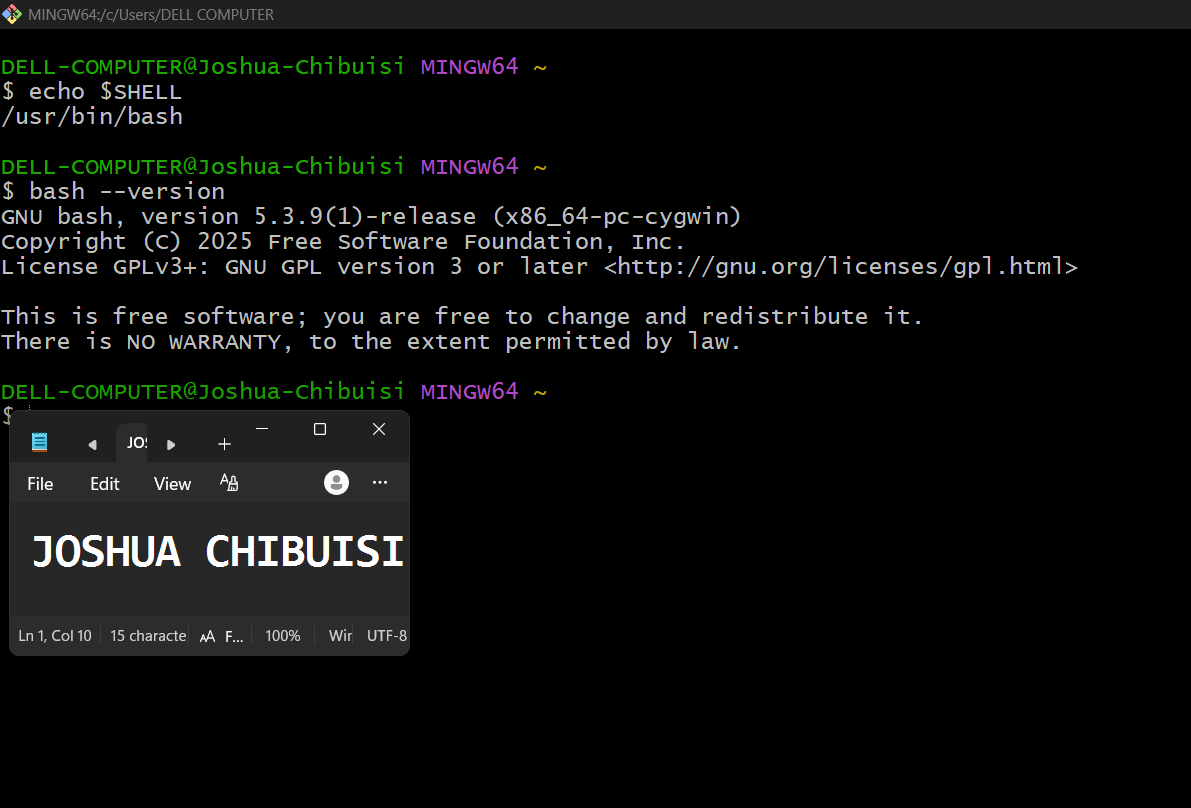
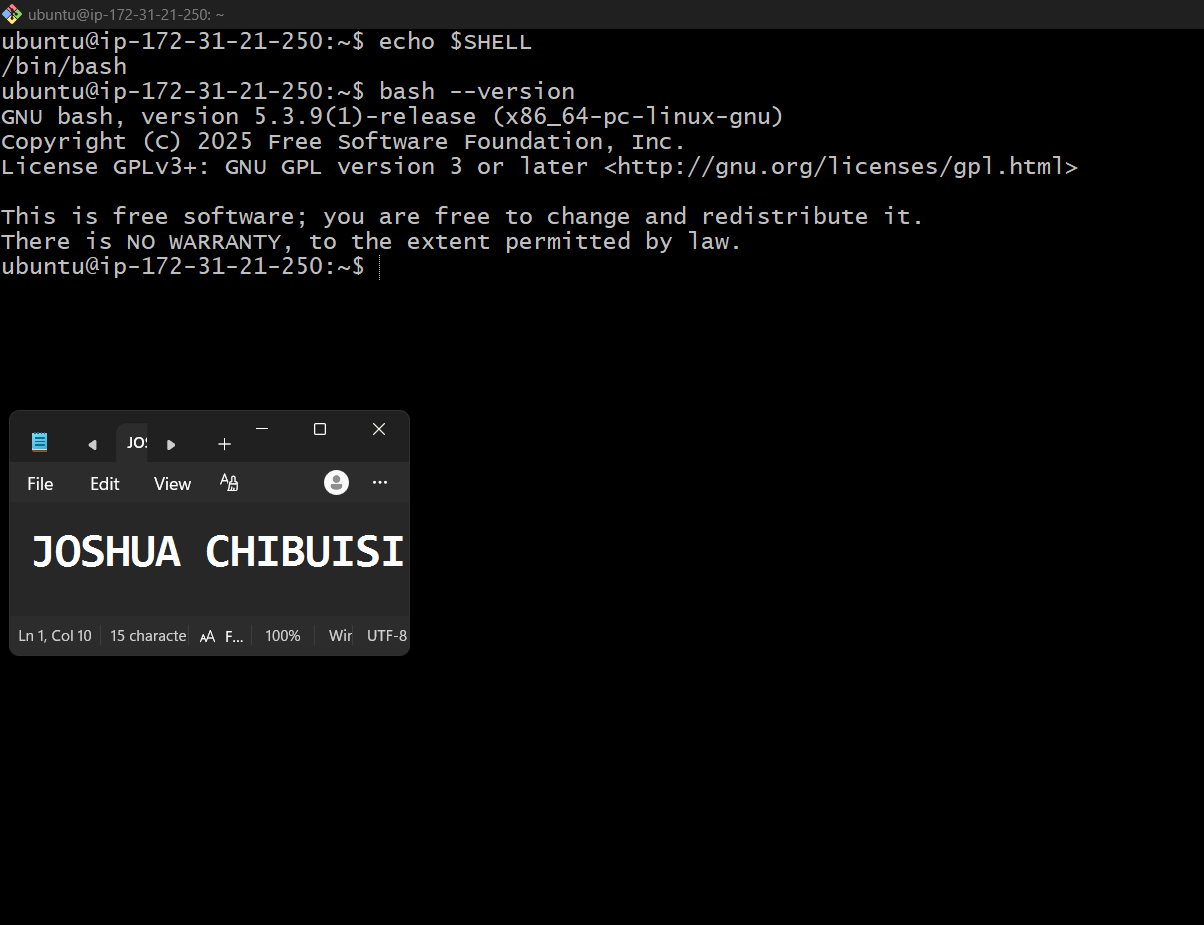
Assignment 5

Changed region(s): [[0.0, 0.0, 1.0, 0.3403], [0.0, 0.3713, 0.7767, 0.6188], [0.0, 0.6498, 0.3417, 0.8354]]

diff --git a/week-03-linux-and-bash-for-devops/assignment-05-bash-script-automation-drill-ops-checklist.md b/week-03-linux-and-bash-for-devops/assignment-05-bash-script-automation-drill-ops-checklist.md
@@ -62,19 +62,19 @@ Create your first Bash script, make it executable, and run it from the terminal.
 
 #### Screenshot 1 — Content of `first-script.sh`
 
-Add your screenshot here.
+![](screenshots/ASS5-TSK2-SC1.png)
 
 ---
 
 #### Screenshot 2 — Output of `./first-script.sh`
 
-Add your screenshot here.
+![](screenshots/ASS5-TSK2-SC2.png)
 
 ---
 
 #### Screenshot 3 — Output of `ls -l first-script.sh` showing executable permission
 
-Add your screenshot here.
+![](screenshots/ASS5-TSK2-SC3.png)
 
 ---
 
@@ -84,19 +84,19 @@ Answer the following in your own words:
 
 **1. What is the purpose of `#!/bin/bash`?**
 
-Add your answer here.
+The line `#!/bin/bash` is called a shebang, and its purpose is to instruct the operating system to use the Bash shell interpreter to execute the commands contained in the script file
 
 ---
 
 **2. Why do we use `chmod +x` before running a script?**
 
-Add your answer here.
+Using `chmod +x` allows the file to be executable as a program or a script
 
 ---
 
 **3. What is the difference between running a script using `./script.sh` and `bash script.sh`?**
 
-Add your answer here.
+The primary difference is that ./script.sh executes the script as a standalone program using the interpreter specified inside its shebang line, whereas bash script.sh forces the script to run directly inside the Bash shell, bypassing the shebang completely.
 
 ---
 
@@ -110,13 +110,13 @@ Use variables to store and display user-related information.
 
 #### Screenshot 1 — Content of `user-info.sh`
 
-Add your screenshot here.
+![](screenshots/ASS5-TSK3-SC1.png)
 
 ---
 
 #### Screenshot 2 — Output of `./user-info.sh`
 
-Add your screenshot here.
+![](screenshots/ASS5-TSK3-SC2.png)
 
 ---
 
@@ -126,19 +126,19 @@ Answer the following in your own words:
 
 **1. What is a variable in Bash?**
 
-Add your answer here.
+In Bash, a variable is a named storage location in memory used to hold temporary data—such as strings, numbers, filenames, or command outputs—that a script or terminal session can access and modify dynamically.
 
 ---
 
 **2. Why should we avoid spaces around the `=` sign when creating variables?**
 
-Add your answer here.
+Avoiding spaces around the = sign in bash scripting is critical because the shell uses whitespace to separate commands and arguments. If you type VAR = "hello", Bash tries to execute a program named VAR and passes = and "hello" as its arguments. By enforcing no spaces, the interpreter clearly knows you intend to assign a value.
 
 ---
 
 **3. How do you access the value stored inside a Bash variable?**
 
-Add your answer here.
+To access the value stored inside a Bash variable, you must prefix the variable name with a dollar sign `$`. If you use the variable name without the `$` symbol, Bash will treat it as a literal plain text string rather than retrieving its contents
 
 ---
 
@@ -152,13 +152,13 @@ Use arrays and loops to print a checklist of tools used in Bash scripting.
 
 #### Screenshot 1 — Content of `tools-checklist.sh`
 
-Add your screenshot here.
+![](screenshots/ASS5-TSK4-SC1.png)
 
 ---
 
 #### Screenshot 2 — Output of `./tools-checklist.sh`
 
-Add your screenshot here.
+![](screenshots/ASS5-TSK4-SC2.png)
 
 ---
 
@@ -168,25 +168,25 @@ Answer the following in your own words:
 
 **1. What is an array in Bash?**
 
-Add your answer here.
+An array in Bash is a data structure that allows you to store multiple values inside a single variable name. Instead of creating separate variables for every single item, you can group related items together as elements within a single array structure
 
 ---
 
 **2. Why are arrays useful in scripts?**
 
-Add your answer here.
+Arrays are useful in scripts because they allow you to store, manage, and manipulate multiple related values under a single variable name instead of creating separate variables for every item. This significantly reduces code complexity, optimizes memory management, and makes automation scripts scalable.
 
 ---
 
 **3. What does `"${tools[@]}"` mean?**
 
-Add your answer here.
+In Bash scripting, "${tools[@]}" expands an array variable named tools into separate arguments, preserving any spaces within individual elements. It is primarily used to pass a complete list of items to a command or loop while treating each item as a distinct, unbroken word
 
 ---
 
 **4. What is the purpose of the `for` loop in this script?**
 
-Add your answer here.
+The purpose of the for loop is to iterate through every item in the tools array and perform the same action for each one.
 
 ---
 
@@ -200,13 +200,13 @@ Use loops to repeat a task multiple times.
 
 #### Screenshot 1 — Content of `counter.sh`
 
-Add your screenshot here.
+![](screenshots/ASS5-TSK5-SC1.png)
 
 ---
 
 #### Screenshot 2 — Output of `./counter.sh`
 
-Add your screenshot here.
+![](screenshots/ASS5-TSK5-SC2.png)
 
 ---
 
@@ -216,25 +216,32 @@ Answer the following in your own words:
 
 **1. What is a loop?**
 
-Add your answer here.
+A loop is a programming construct that repeatedly executes a block of code until all items have been processed or a specified condition is met.
 
 ---
 
 **2. Why do we use loops in Bash scripting?**
 
-Add your answer here.
+Loops are used to:
+
+Automate repetitive tasks instead of writing the same commands multiple times; reduce code duplication, making scripts shorter and easier to read; Improve maintainability, since changes only need to be made in one place; Process multiple items, such as files, directories, or numbers.
 
 ---
 
 **3. How many times did the loop run in your script?**
 
-Add your answer here.
+The loop ran five times in my script.
 
 ---
 
 **4. What would you change if you wanted the loop to run 10 times?**
 
-Add your answer here.
+for number in {1..10}
+do
+    echo "Step $number completed"
+done
+
+This way makes it easy to scale up, even if I want to make it run 100 times or a thousand times.
 
 ---
 
@@ -248,19 +255,19 @@ Use file checks and conditionals to verify whether files and directories exist.
 
 #### Screenshot 1 — Output of `ls -lah ../test-folder`
 
-Add your screenshot here.
+![](screenshots/ASS5-TSK6-SC1.png)
 
 ---
 
 #### Screenshot 2 — Content of `file-check.sh`
 
-Add your screenshot here.
+![](screenshots/ASS5-TSK6-SC2.png)
 
 ---
 
 #### Screenshot 3 — Output of `./file-check.sh`
 
-Add your screenshot here.
+![](screenshots/ASS5-TSK6-SC3.png)
 
 ---
 
@@ -270,25 +277,30 @@ Answer the following in your own words:
 
 **1. What does `-d` check in Bash?**
 
-Add your answer here.
+The -d test checks whether a directory exists.
 
 ---
 
 **2. What does `-f` check in Bash?**
 
-Add your answer here.
+The -f test checks whether a regular file exists.
 
 ---
 
 **3. Why should file and directory paths be stored in variables?**
 
-Add your answer here.
+Storing paths in variables in your script makes your script:
+
+Easier to read because the path has a meaningful name.
+Easier to maintain since you only need to update the path in one place.
+Reusable because the same variable can be referenced multiple times.
+Less error-prone because it reduces the need to repeatedly type long paths.
 
 ---
 
 **4. What happens if the file does not exist?**
 
-Add your answer here.
+If the file doesn't exist, it prints `Directory does not exist:` to the terminal.
 
 ---
 
@@ -302,25 +314,25 @@ Use if-else conditionals to make decisions based on a variable value.
 
 #### Screenshot 1 — Content of `score-check.sh` with `score=85`
 
-Add your screenshot here.
+![](screenshots/ASS5-TSK7-SC1.png)
 
 ---
 
 #### Screenshot 2 — Output showing `Result: Pass`
 
-Add your screenshot here.
+![](screenshots/ASS5-TSK7-SC2.png)
 
 ---
 
 #### Screenshot 3 — Content of `score-check.sh` with `score=55`
 
-Add your screenshot here.
+![](screenshots/ASS5-TSK7-SC3.png)
 
 ---
 
 #### Screenshot 4 — Output showing `Result: Retry`
 
-Add your screenshot here.
+![](screenshots/ASS5-TSK7-SC4.png)
 
 ---
 
@@ -330,25 +342,30 @@ Answer the following in your own words:
 
 **1. What is the purpose of if-else in Bash?**
 
-Add your answer here.
+The if-else statement allows a Bash script to make decisions based on whether a condition is true or false.
+
+If the condition is true, the commands inside the if block are executed.
+If the condition is false, the commands inside the else block are executed.
 
 ---
 
 **2. What does `-ge` mean?**
 
-Add your answer here.
+-ge stands for greater than or equal to.
+
+It is one of Bash's numeric comparison operators.
 
 ---
 
 **3. Why should conditions be tested with different values?**
 
-Add your answer here.
+Testing different values helps ensure that your script works correctly in all possible situations, not just one.
 
 ---
 
 **4. How can conditionals help in automation scripts?**
 
-Add your answer here.
+Conditionals allow automation scripts to make decisions automatically instead of requiring human input.
 
 ---
 
@@ -362,19 +379,19 @@ Create a final Bash script using functions to organize reusable code.
 
 #### Screenshot 1 — Content of `final-automation.sh`
 
-Add your screenshot here.
+![](screenshots/ASS5-TSK8-SC1.png)
 
 ---
 
 #### Screenshot 2 — Output of `./final-automation.sh`
 
-Add your screenshot here.
+![](screenshots/ASS5-TSK8-SC2.png)
 
 ---
 
 #### Screenshot 3 — Output of `ls -lah` showing all created scripts
 
-Add your screenshot here.
+![](screenshots/ASS5-TSK8-SC3.png)
 
 ---
 
@@ -384,25 +401,55 @@ Answer the following in your own words:
 
 **1. What is a function in Bash?**
 
-Add your answer here.
+A function is a named block of code that performs a specific task. Instead of writing the same code multiple times, you define it once and call it whenever you need it.
 
 ---
 
 **2. Why are functions useful in scripts?**
 
-Add your answer here.
+Functions make scripts:
+
+Reusable – Write code once and call it whenever needed.
+Organized – Break large scripts into smaller, logical sections.
+Easier to maintain – If you need to change a task, you only update the function.
+More readable – Function names describe what each section of the script does.
 
 ---
 
 **3. Which functions did you create in this script?**
 
-Add your answer here.
+Four functions were created;
+
+`print_header()`
+Prints the assignment title and decorative lines. Makes the output easier to read.
+
+`print_user_details()`
+Displays your full name and the assignment name.
+
+`check_files()`
+Checks whether the required directory exists using -d.
+Checks whether the required file exists using -f.
+Displays whether each check passed or failed.
+
+`print_tools()`
+Loops through the tools array.
+Prints each Bash tool in the checklist.
 
 ---
 
 **4. How does this final script combine variables, arrays, loops, conditionals, files, and functions?**
 
-Add your answer here.
+Variables; Stores information that can be reused throughout the script.
+
+Arrays; Stores multiple related values in one variable.
+
+Loops; The for loop iterates through the tools array and prints each tool.
+
+Conditionals; if-else statements check whether the directory (-d) and file (-f) exist, then print the appropriate message.
+
+Files and Directories; The script verifies that the specified directory and file exist before reporting success or failure.
+
+Functions; The script organizes related tasks into reusable functions (print_header, print_user_details, check_files, and print_tools) and then calls them in sequence.
 
 ---
 
